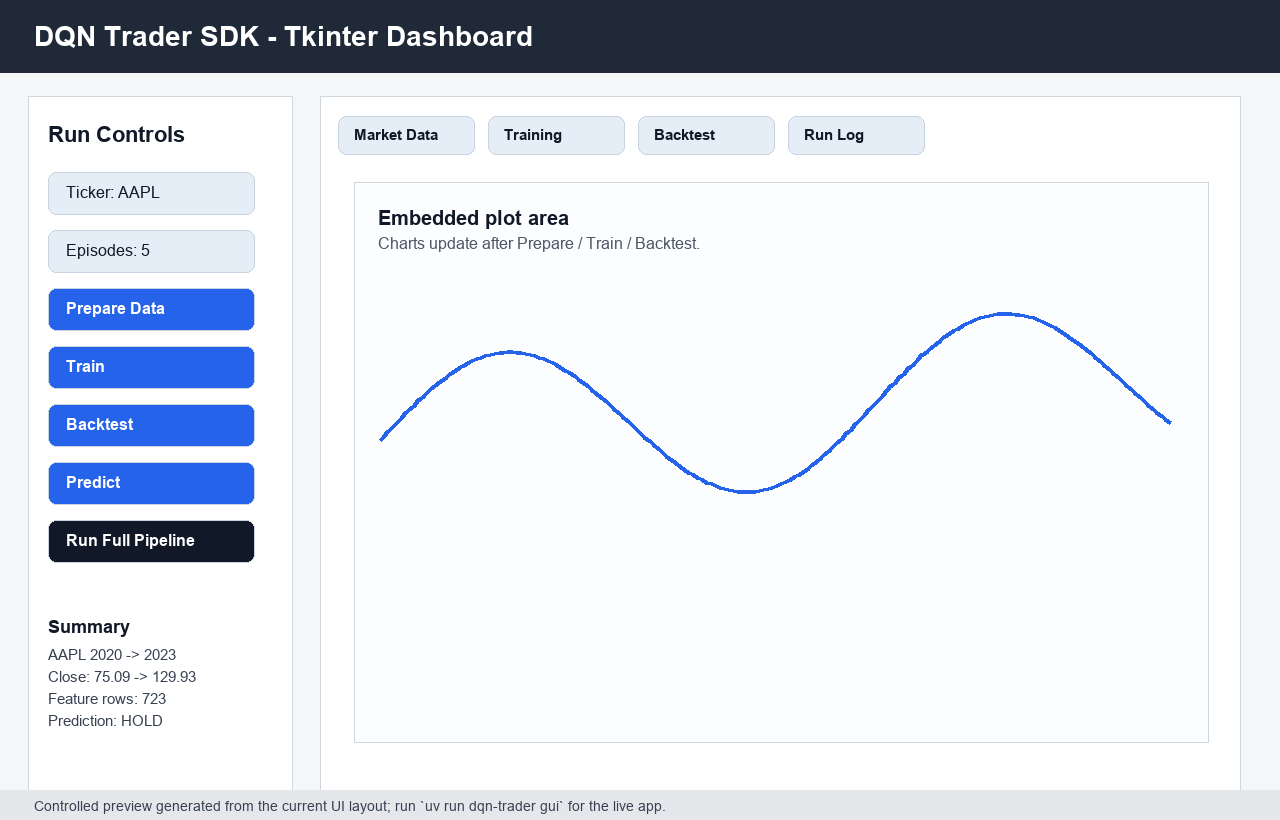
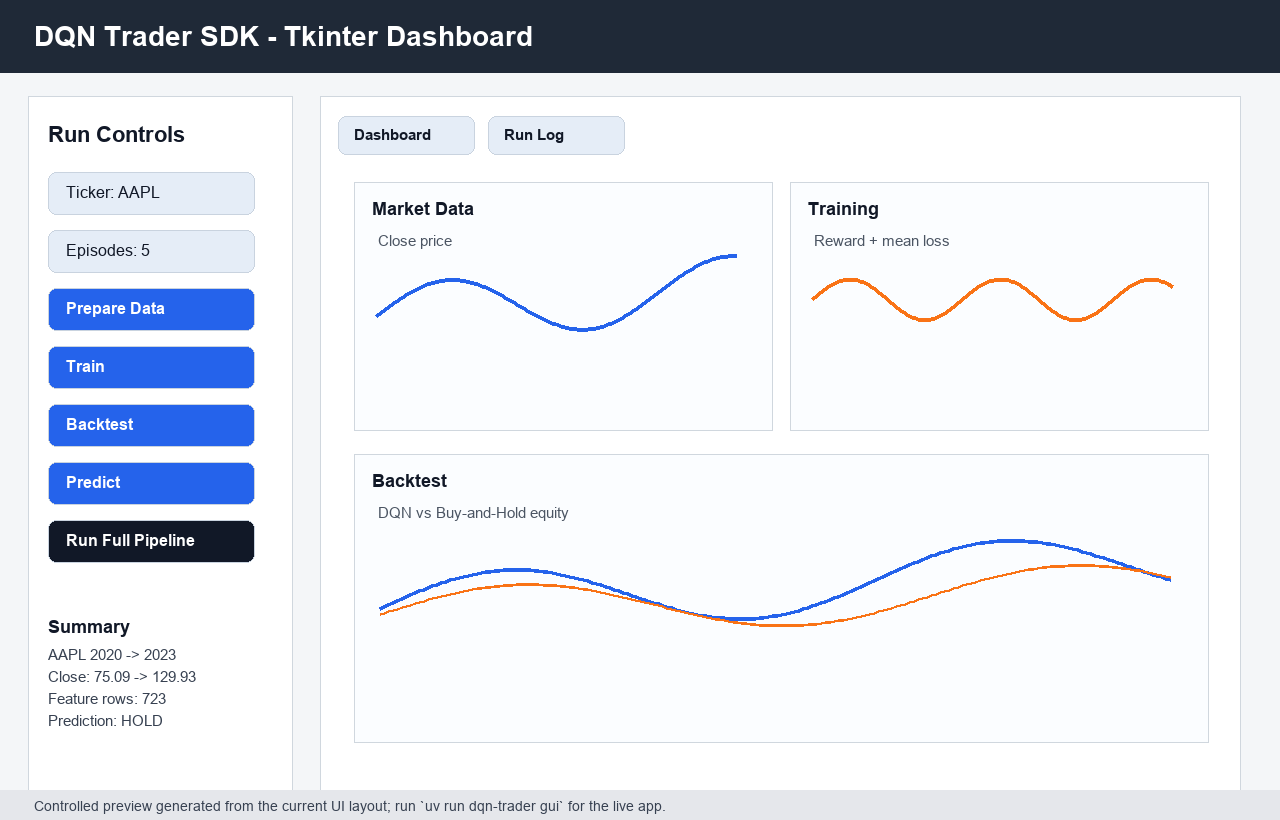
Improve dashboard layout and progress logs

diff --git a/src/dqn_trader/interface/gui.py b/src/dqn_trader/interface/gui.py
@@ -13,8 +13,8 @@ class TraderApp(tk.Tk):
     def __init__(self) -> None:
         super().__init__()
         self.title("DQN Trader SDK - Assignment 02")
-        self.geometry("1120x720")
-        self.minsize(980, 640)
+        self.geometry("1260x820")
+        self.minsize(1080, 720)
         self.sdk = TradingSDK()
         self.ticker = tk.StringVar(value=self.sdk.config["data"]["ticker"])
         self.episodes = tk.StringVar(value=str(self.sdk.config["training"]["episodes"]))
@@ -64,20 +64,32 @@ class TraderApp(tk.Tk):
         ttk.Label(controls, textvariable=self.summary, wraplength=190).pack(anchor="w")
         self.tabs = ttk.Notebook(shell)
         self.tabs.grid(row=0, column=1, sticky="nsew")
-        self.data_chart = self._tab("Market Data", "Close price")
-        self.training_chart = self._tab("Training", "Episode reward / loss")
-        self.backtest_chart = self._tab("Backtest", "Equity curve")
+        dashboard = ttk.Frame(self.tabs, padding=10)
+        dashboard.columnconfigure(0, weight=1)
+        dashboard.columnconfigure(1, weight=1)
+        dashboard.rowconfigure(0, weight=1)
+        dashboard.rowconfigure(1, weight=1)
+        self.tabs.add(dashboard, text="Dashboard")
+        self.data_chart = self._dashboard_chart(dashboard, "Market Data", 0, 0)
+        self.training_chart = self._dashboard_chart(dashboard, "Training", 0, 1)
+        self.backtest_chart = self._dashboard_chart(dashboard, "Backtest", 1, 0, columnspan=2)
+        self.data_chart.draw_empty("Prepare data to show close prices")
+        self.training_chart.draw_empty("Train to show reward and mean loss")
+        self.backtest_chart.draw_empty("Backtest to show DQN vs Buy-and-Hold equity")
         self.log = tk.Text(self.tabs, height=8, wrap="word")
         self.tabs.add(self.log, text="Run Log")
         ttk.Label(shell, textvariable=self.status, style="Status.TLabel").grid(
             row=1, column=0, columnspan=2, sticky="ew", pady=(12, 0)
         )
-        self._write_log("Ready. Use Prepare Data first, then Train and Backtest.")
+        self._write_log(
+            "Ready. Use Run Full Pipeline for the complete demo, or run each stage manually."
+        )
 
     def _prepare(self) -> None:
         ticker = self.ticker.get()
 
         def task():
+            self._progress("Preparing market data and features. Usually a few seconds if cached.")
             raw, features, splits = self.sdk.prepare_data(ticker)
             close_values = raw["Close"].tolist()
             split_sizes = [len(part) for part in splits]
@@ -89,7 +101,7 @@ class TraderApp(tk.Tk):
                     f"Split sizes: {split_sizes}"
                 )
 
-            return "Data prepared", update
+            return "Data prepared. Market chart and split summary updated.", update
 
         self._run(task)
 
@@ -98,8 +110,12 @@ class TraderApp(tk.Tk):
         episodes = int(self.episodes.get())
 
         def task():
+            self._progress(
+                f"Full pipeline started for {ticker.upper()}: data -> train -> backtest -> predict."
+            )
             self.sdk.config["training"]["episodes"] = episodes
-            result = self.sdk.run_pipeline(ticker)
+            result = self.sdk.run_pipeline(ticker, progress=self._progress)
+            self._progress(f"Complete: finished training/backtest/prediction for {ticker.upper()}.")
             labels = ["SELL", "HOLD", "BUY"]
             action, q_values = result.prediction
             split_sizes = [len(part) for part in result.splits]
@@ -150,6 +166,10 @@ class TraderApp(tk.Tk):
         episodes = int(self.episodes.get())
 
         def task():
+            self._progress(
+                f"Training {ticker.upper()} for {episodes} episodes. "
+                "On CPU this can take roughly 10-60 seconds for the default setup."
+            )
             self.sdk.config["training"]["episodes"] = episodes
             result = self.sdk.train(ticker)
 
@@ -170,6 +190,7 @@ class TraderApp(tk.Tk):
         ticker = self.ticker.get()
 
         def task():
+            self._progress("Running deterministic backtest. Usually a few seconds after training.")
             result = self.sdk.backtest(ticker)
 
             def update() -> None:
@@ -193,6 +214,9 @@ class TraderApp(tk.Tk):
         ticker = self.ticker.get()
 
         def task():
+            self._progress(
+                "Predicting latest available dataset state. This is not a 2026-live pull."
+            )
             action, q_values = self.sdk.predict_latest(ticker)
             labels = ["SELL", "HOLD", "BUY"]
             ordered = sorted(q_values, reverse=True)
@@ -216,17 +240,22 @@ class TraderApp(tk.Tk):
 
         threading.Thread(target=worker, daemon=True).start()
 
+    def _progress(self, message: str) -> None:
+        self.after(0, self.status.set, message)
+        self.after(0, self._write_log, message)
+
     def _finish_run(self, message: str, update) -> None:
         if update is not None:
             update()
         self.status.set(message)
         self._write_log(message)
 
-    def _tab(self, label: str, empty_message: str) -> ChartPanel:
-        frame = ttk.Frame(self.tabs, padding=10)
-        self.tabs.add(frame, text=label)
+    def _dashboard_chart(
+        self, parent: ttk.Frame, label: str, row: int, column: int, columnspan: int = 1
+    ) -> ChartPanel:
+        frame = ttk.LabelFrame(parent, text=label, padding=8)
+        frame.grid(row=row, column=column, columnspan=columnspan, sticky="nsew", padx=6, pady=6)
         chart = ChartPanel(frame, label)
-        chart.draw_empty(empty_message)
         return chart
 
     def _write_log(self, text: str) -> None:

diff --git a/scripts/generate_readme_assets.py b/scripts/generate_readme_assets.py
@@ -49,22 +49,45 @@ def draw_dashboard_preview() -> None:
         spacing=8,
     )
     draw.rectangle((320, 96, 1240, 790), fill="#ffffff", outline="#d0d7de")
-    tabs = ["Market Data", "Training", "Backtest", "Run Log"]
+    tabs = ["Dashboard", "Run Log"]
     for i, tab in enumerate(tabs):
         x = 338 + i * 150
         draw.rounded_rectangle((x, 116, x + 136, 154), radius=8, fill="#e5edf7", outline="#c9d3df")
         draw.text((x + 16, 126), tab, fill="#111827", font=font(15, True))
-    draw.rectangle((354, 182, 1208, 742), fill="#fbfdff", outline="#d0d7de")
-    x_values = np.linspace(0, 1, 180)
-    y_values = 0.5 + 0.22 * np.sin(10 * x_values) + 0.17 * x_values
-    points = [
-        (380 + int(x * 790), 620 - int(y * 360)) for x, y in zip(x_values, y_values, strict=True)
+
+    panels = [
+        (354, 182, 772, 430, "Market Data"),
+        (790, 182, 1208, 430, "Training"),
+        (354, 454, 1208, 742, "Backtest"),
     ]
-    draw.line(points, fill="#2563eb", width=4)
-    draw.text((378, 206), "Embedded plot area", fill="#111827", font=font(20, True))
-    draw.text(
-        (378, 234), "Charts update after Prepare / Train / Backtest.", fill="#4b5563", font=font(16)
-    )
+    for x1, y1, x2, y2, title in panels:
+        draw.rectangle((x1, y1, x2, y2), fill="#fbfdff", outline="#d0d7de")
+        draw.text((x1 + 18, y1 + 16), title, fill="#111827", font=font(18, True))
+
+    x_values = np.linspace(0, 1, 180)
+    market = 0.45 + 0.18 * np.sin(8 * x_values) + 0.18 * x_values
+    reward = 0.55 + 0.12 * np.sin(15 * x_values)
+    backtest_a = 0.45 + 0.15 * np.sin(10 * x_values) + 0.22 * x_values
+    backtest_b = 0.42 + 0.12 * np.sin(9 * x_values) + 0.13 * x_values
+    market_points = [
+        (376 + int(x * 360), 392 - int(y * 170)) for x, y in zip(x_values, market, strict=True)
+    ]
+    reward_points = [
+        (812 + int(x * 360), 392 - int(y * 170)) for x, y in zip(x_values, reward, strict=True)
+    ]
+    backtest_points_a = [
+        (380 + int(x * 790), 702 - int(y * 210)) for x, y in zip(x_values, backtest_a, strict=True)
+    ]
+    backtest_points_b = [
+        (380 + int(x * 790), 702 - int(y * 210)) for x, y in zip(x_values, backtest_b, strict=True)
+    ]
+    draw.line(market_points, fill="#2563eb", width=4)
+    draw.line(reward_points, fill="#f97316", width=4)
+    draw.line(backtest_points_a, fill="#2563eb", width=4)
+    draw.line(backtest_points_b, fill="#f97316", width=3)
+    draw.text((378, 232), "Close price", fill="#4b5563", font=font(15))
+    draw.text((814, 232), "Reward + mean loss", fill="#4b5563", font=font(15))
+    draw.text((378, 504), "DQN vs Buy-and-Hold equity", fill="#4b5563", font=font(15))
     draw.rectangle((0, 790, 1280, 820), fill="#e5e7eb")
     draw.text(
         (34, 798),

diff --git a/src/dqn_trader/sdk/sdk.py b/src/dqn_trader/sdk/sdk.py
@@ -1,5 +1,6 @@
 """Single entry point for data, training, evaluation, and inference."""
 
+from collections.abc import Callable
 from dataclasses import dataclass
 from pathlib import Path
 
@@ -78,15 +79,24 @@ class TradingSDK:
         ticker: str | None = None,
         reward_mode: str = "risk_adjusted",
         output_dir: Path = Path("results"),
+        progress: Callable[[str], None] | None = None,
     ) -> PipelineResult:
+        if progress is not None:
+            progress("Stage 1/4: preparing data and calculating features.")
         raw, features, splits = self.prepare_data(ticker)
+        if progress is not None:
+            progress("Stage 2/4: training Dueling DQN and saving the best checkpoint.")
         env = self.make_env(features, raw, reward_mode)
         checkpoint = Path(self.config["training"]["checkpoint_path"])
         training = TrainingService(self.config["training"]).train(env, checkpoint)
+        if progress is not None:
+            progress("Stage 3/4: running deterministic backtest against Buy-and-Hold.")
         model = self._load_model()
         backtest_env = self.make_env(features, raw, reward_mode)
         backtest = BacktestService().run(backtest_env, model)
         BacktestService.save(backtest, output_dir)
+        if progress is not None:
+            progress("Stage 4/4: predicting the latest available dataset state.")
         window_size = self.config["features"]["window_size"]
         state = features.tail(window_size)[FEATURE_COLUMNS].to_numpy(dtype="float32")
         prediction = InferenceService.predict(model, state, has_position=False)

diff --git a/README.md b/README.md
@@ -36,7 +36,7 @@ The GUI is the preferred way to demonstrate the project. It includes:
 - Backtest.
 - Latest-state action prediction.
 - One-click full pipeline: prepare data, train, backtest, predict, and update all plots.
-- Market data, training, and backtest plot tabs.
+- One dashboard view with market data, training, and backtest plots visible together.
 - Run log and status output.
 
 ## Experiment Evidence and Work Report
@@ -175,7 +175,7 @@ Experiment parameters live in `config/setup.yaml`; rate-limit placeholders live 
 - README dashboard images are generated demonstration assets; the real Tkinter GUI was updated to match their styling more closely.
 
 ## GUI Guide
-Run `uv run dqn-trader gui`. The Tkinter app allows ticker selection, data preparation, Dueling DQN training, backtesting, and latest-state prediction. Use `Run Full Pipeline` for the clean demo path: it pulls/prepares prices, trains, backtests, predicts the latest action, and updates the market, training, and equity plots in one click. It delegates all logic to `TradingSDK`, preserving the required architecture.
+Run `uv run dqn-trader gui`. The Tkinter app allows ticker selection, data preparation, Dueling DQN training, backtesting, and latest-state prediction. Use `Run Full Pipeline` for the clean demo path: it pulls/prepares prices, trains, backtests, predicts the latest action, and updates the market, training, and equity plots in one dashboard. The Run Log tab records the current stage and rough timing expectations instead of only saying "Running". The GUI delegates all logic to `TradingSDK`, preserving the required architecture.
 
 ## Visual Demonstration
 The dashboard image below is a safe controlled preview generated from the current Tkinter layout. It shows the real control structure, including ticker, episodes, Prepare Data, Train, Backtest, Predict, and Run Full Pipeline. It is not a desktop screenshot, so no personal windows or files are captured.